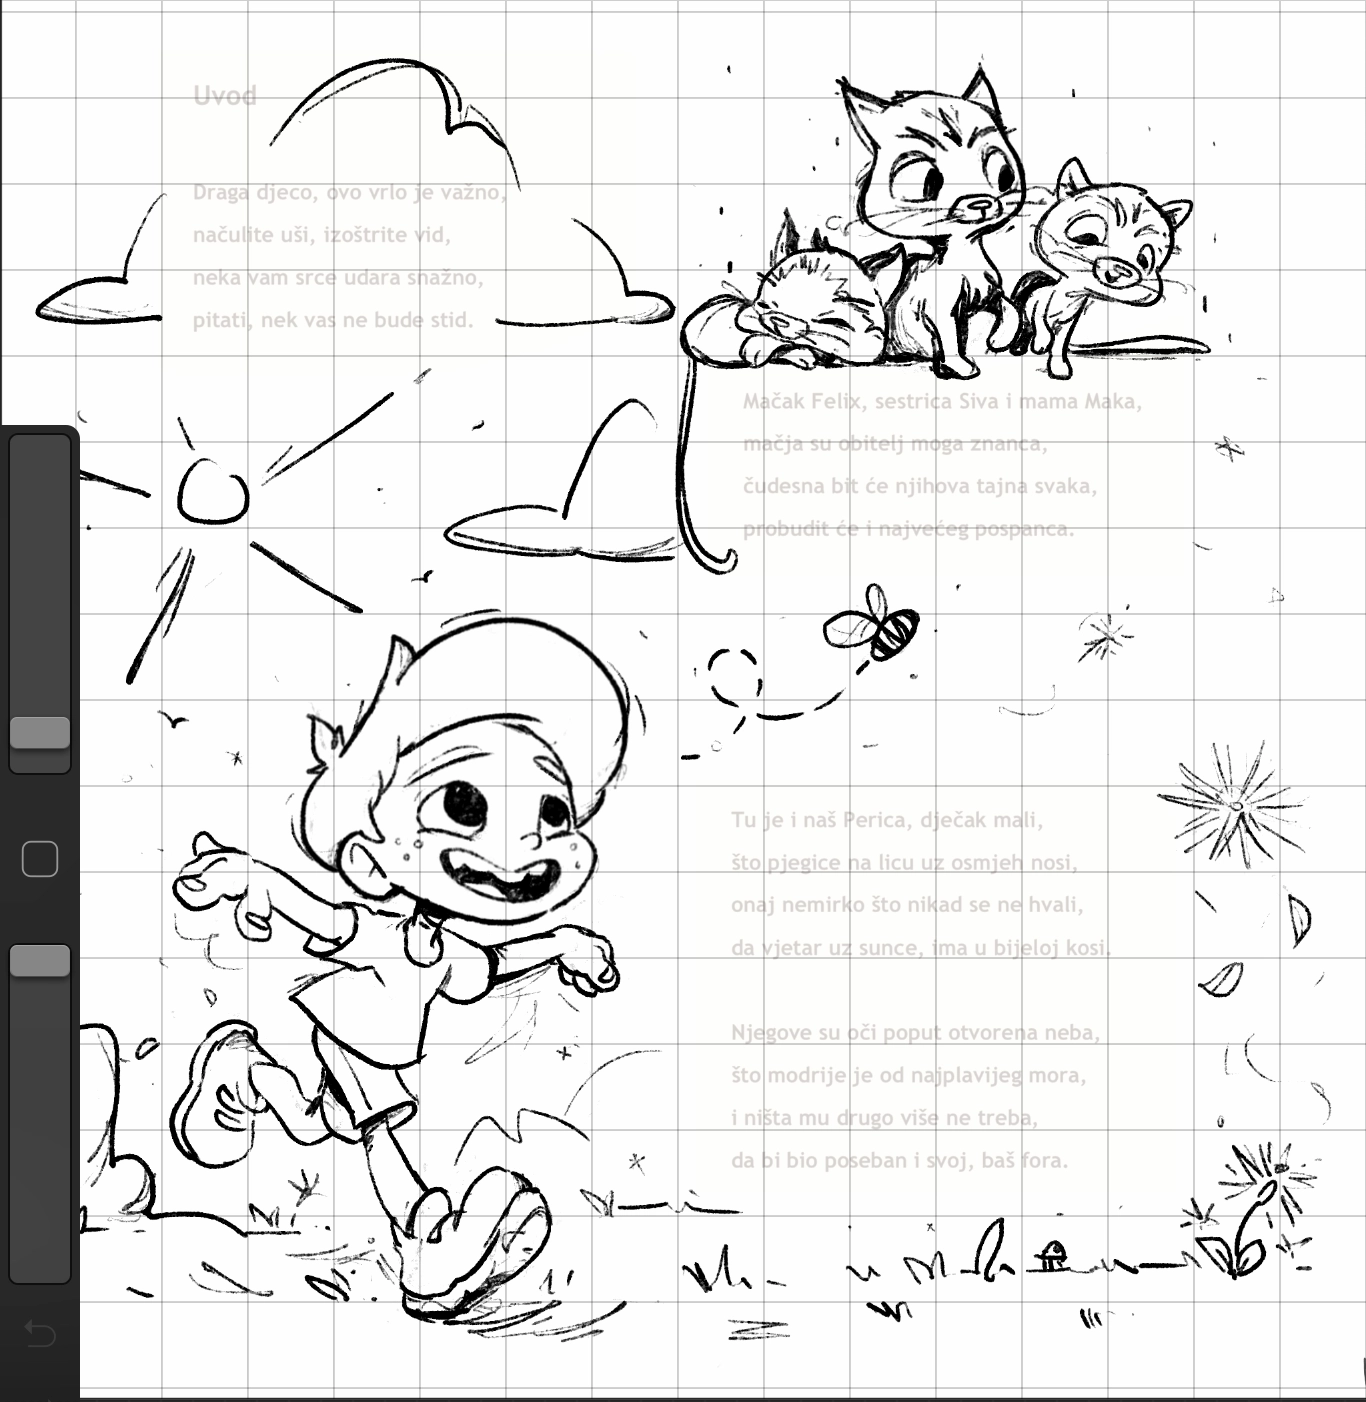
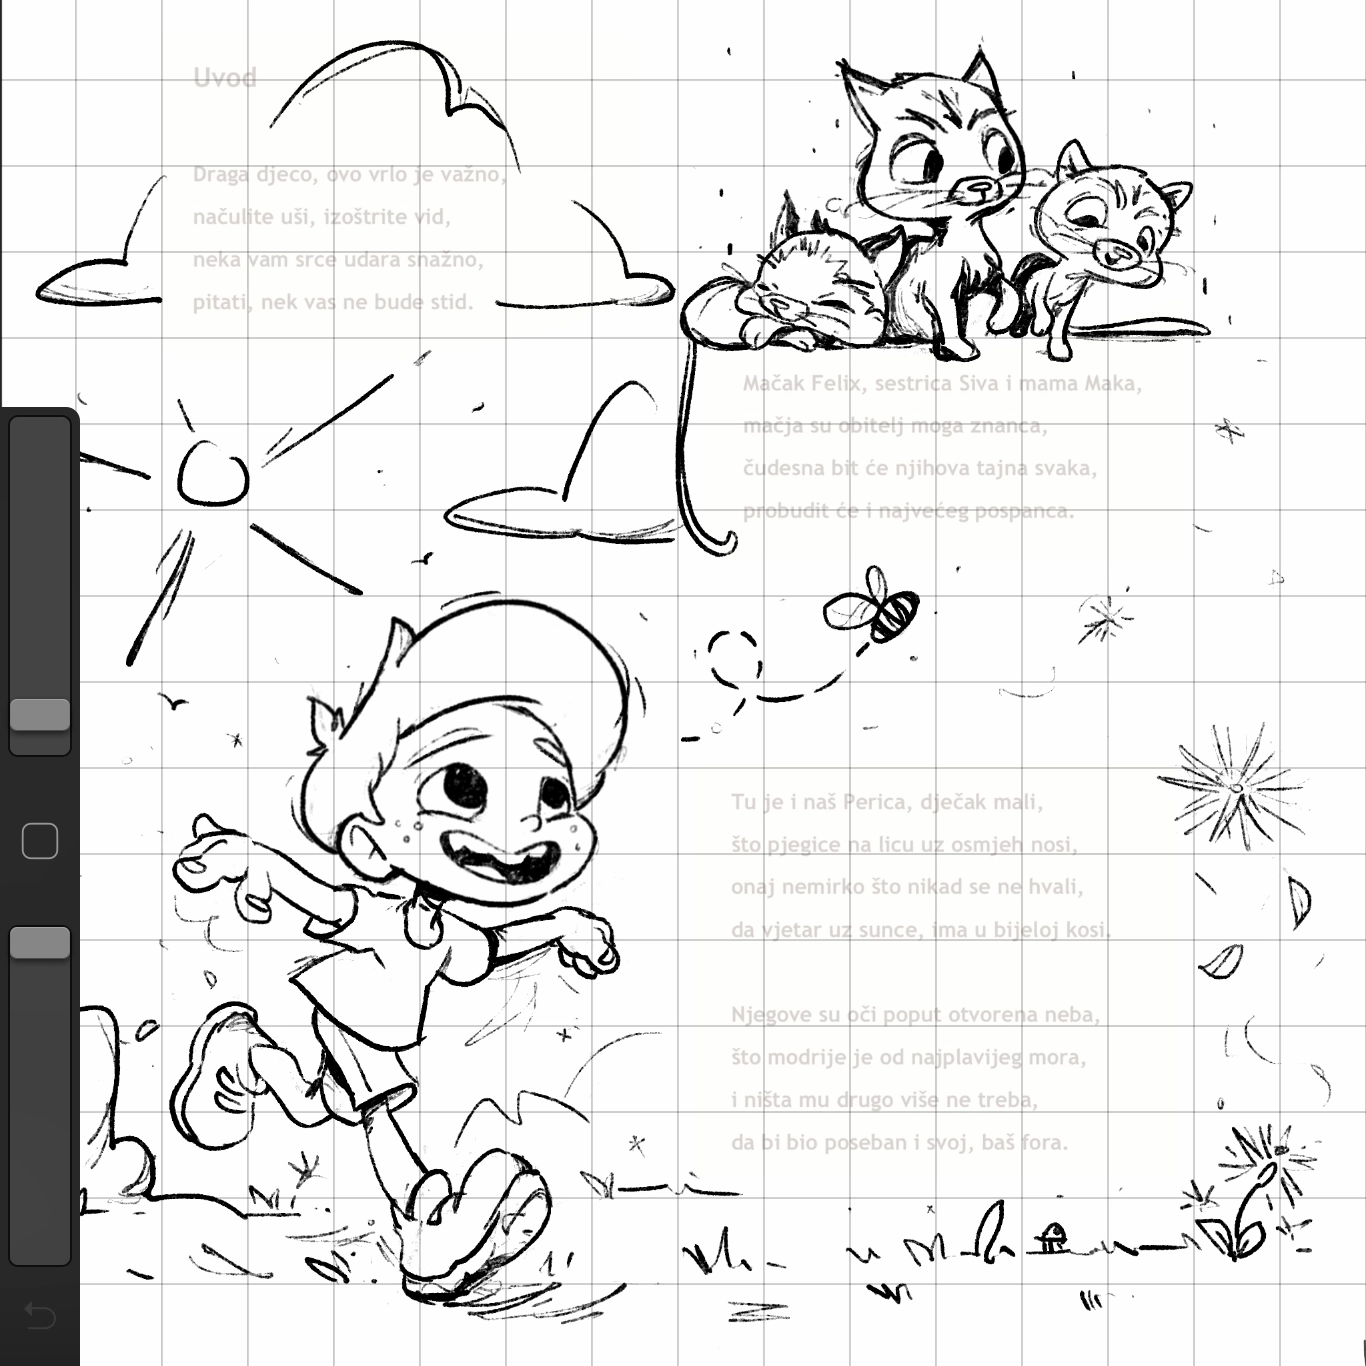
Rata anim + fix sandiwch + add links illust

diff --git a/ILLUSTRATION.html b/ILLUSTRATION.html
@@ -35,13 +35,14 @@
 
     <section id="ILLUSTRATION contentgrid" class="CONTENTGRID-ILLUSTRATION">
       <div class="columna1">
-        <div class="tile">
-          <img
-            src="img/illust/I01_OMIGRANADA.webp"
-            alt="ILLUSTRATION OMI GRANADA"
-            data-full="img/illust/HQ/I01_OMIGRANADA_HQ.webp"
-          />
+        <div class="nolightbox">
+          <a href="PROJ-06-OMI-GRANADA.html">
+            <img
+              src="img/illust/I01_OMIGRANADA.webp"
+              alt="ILLUSTRATION OMI GRANADA"
+          /></a>
         </div>
+
         <div class="tile">
           <img
             src="img/illust/I07-BCN.webp"
@@ -95,33 +96,31 @@
             data-full="img/illust/HQ/I02_SIRENA-LATA_HQ.webp"
           />
         </div>
-        <div class="tile">
-          <img
-            src="img/illust/I04-NATVENTAS.webp"
-            alt="ILLUSTRACION NATURGY VENTAS"
-            data-full="img/illust/HQ/I04-NATVENTAS_HQ.webp"
-          />
+        <div class="nolightbox">
+          <a href="PROJ-04-NATURGY.html">
+            <img
+              src="img/illust/I08-NATSOLAR.webp"
+              alt="ILLUSTRACION NATURGY SOLAR"
+          /></a>
         </div>
-        <div class="tile">
-          <img
-            src="img/illust/I08-NATSOLAR.webp"
-            alt="ILLUSTRATION NATURGY SOLAR"
-            data-full="img/illust/HQ/I08-NATSOLAR_HQ.webp"
-          />
+        <div class="nolightbox">
+          <a href="PROJ-04-NATURGY.html">
+            <img
+              src="img/illust/I04-NATVENTAS.webp"
+              alt="ILLUSTRATION NATURGY VENTAS"
+          /></a>
         </div>
-        <div class="tile">
-          <img
-            src="img/illust/I18-8M.webp"
-            alt="ILLUSTRATION 8m"
-            data-full="img/illust/HQ/I18-8M_HQ.webp"
-          />
+        <div class="nolightbox">
+          <a href="PROJ-11-LOQUELEO.html">
+            <img src="img/illust/I18-8M.webp" alt="ILLUSTRATION 8m"
+          /></a>
         </div>
-        <div class="tile">
-          <img
-            src="img/illust/I11-CUENTO1.webp"
-            alt="ILLUSTRATION BOOK COVER"
-            data-full="img/illust/HQ/I11-CUENTO1_HQ.webp"
-          />
+        <div class="nolightbox">
+          <a href="PROJ-10-LEGACYPUZZLE.html">
+            <img
+              src="img/illust/I11-CUENTO1.webp"
+              alt="ILLUSTRATION BOOK COVER"
+          /></a>
         </div>
         <div class="tile">
           <img
@@ -156,11 +155,13 @@
             />
           </div>
           <div class="tile small">
-            <img
-              src="img/illust/I06-STJORDI.webp"
-              alt="ILLUSTRATION STJORDI"
-              data-full="img/illust/HQ/I06-STJORDI_HQ.webp"
-            />
+            <div class="nolightbox">
+              <a href="PROJ-03-LOSS.html">
+                <img
+                  src="img/illust/I06-STJORDI.webp"
+                  alt="ILLUSTRATION STJORDI"
+              /></a>
+            </div>
           </div>
         </div>
         <div class="tile">
@@ -170,12 +171,10 @@
             data-full="img/illust/HQ/I09-GATOS_HQ.webp"
           />
         </div>
-        <div class="tile">
-          <img
-            src="img/illust/I15-CUENTO2.webp"
-            alt="ILLUSTRATION BOOK PAGE"
-            data-full="img/illust/HQ/I15-CUENTO2_HQ.webp"
-          />
+        <div class="nolightbox">
+          <a href="PROJ-10-LEGACYPUZZLE.html">
+            <img src="img/illust/I15-CUENTO2.webp" alt="ILLUSTRATION BOOK PAGE"
+          /></a>
         </div>
         <div class="tile">
           <img
@@ -226,6 +225,9 @@
         if (!grid || !lightbox || !lightboxImg) return;
 
         grid.addEventListener("click", (e) => {
+          // Ignore clicks inside elements marked as nolightbox
+          if (e.target.closest(".nolightbox")) return;
+
           const img = e.target.closest("img");
           if (!img) return;
           lightboxImg.src = img.getAttribute("data-full") || img.src;

diff --git a/index.html b/index.html
@@ -63,7 +63,7 @@
       </div>
       <div class="test">
         <img
-          src="img/anim/prueba low res.gif"
+          src="img/anim/ANIM-02-CARETA.gif"
           alt="animacion 1"
           data-full="img/anim/HQ/ANIM-02-CARETA_HQ.gif"
           width="252"
@@ -95,9 +95,9 @@
       </div>
       <div class="test">
         <img
-          src="img/anim/ANIM-02-CARETA.gif"
+          src="img/anim/ANIM-09-RATA.gif"
           alt="animacion 5"
-          data-full="img/anim/HQ/ANIM-02-CARETA_HQ.gif"
+          data-full="img/anim/HQ/ANIM-09-RATA_HQ.gif"
           width="252"
         />
       </div>
@@ -144,7 +144,7 @@
       </div>
       <div class="ABOUTMEANIMVISUAL">
         <img
-          src="img/anim/ANIMVISUAL-TEST-BLACK_V2.png"
+          src="img/anim/ANIMVISUAL-TEST-WHITE.png"
           alt="albertisment animando"
         />
       </div>
@@ -165,6 +165,9 @@
         if (!grid || !lightbox || !lightboxImg) return;
 
         grid.addEventListener("click", (e) => {
+          // Ignore clicks inside elements marked as nolightbox
+          if (e.target.closest(".nolightbox")) return;
+
           const img = e.target.closest("img");
           if (!img) return;
           lightboxImg.src = img.getAttribute("data-full") || img.src;

diff --git a/SKETCHBOOK.html b/SKETCHBOOK.html
@@ -145,6 +145,9 @@
         if (!grid || !lightbox || !lightboxImg) return;
 
         grid.addEventListener("click", (e) => {
+          // Ignore clicks inside elements marked as nolightbox
+          if (e.target.closest('.nolightbox')) return;
+
           const img = e.target.closest("img");
           if (!img) return;
           lightboxImg.src = img.getAttribute("data-full") || img.src;

diff --git a/css/Albertisment_style.css b/css/Albertisment_style.css
@@ -5,6 +5,7 @@
  html, body {
     margin: 0;
     padding: 0;
+    scroll-behavior: smooth;
     background: var(--AZUL1);
     background-image: url('BG4_.webp');
     background-size: cover;

diff --git a/PROJ-09-SANDWICH.html b/PROJ-09-SANDWICH.html
@@ -77,7 +77,8 @@
             allowfullscreen
           ></iframe>
         </div>
-        
+      </section>
+    </div>
 
     <section class="container">
       <div class="TEXTO1">
